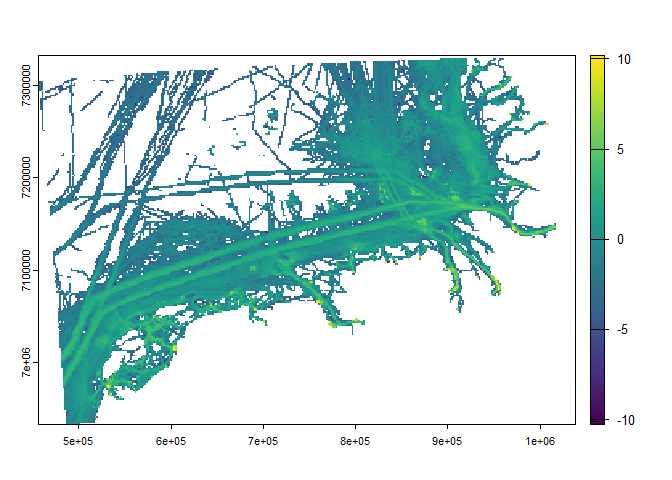
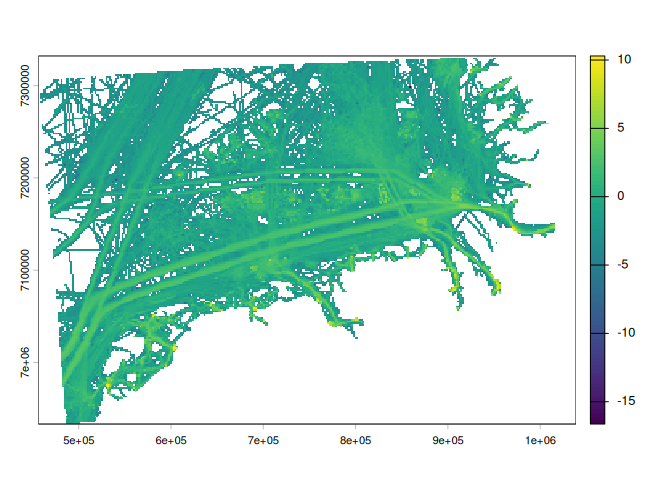
Deploying to gh-pages from @ EMODnet/emodnet.wcs@b8e9842db4f9d2f2b147557146b9913ca2b39ca5 🚀

Changed region(s): [[0.0312, 0.0938, 0.8438, 0.9375], [0.875, 0.0938, 0.9688, 0.9062], [0.0312, 0.7188, 0.0625, 0.7812]]

diff --git a/index.html b/index.html
@@ -102,10 +102,14 @@
 <td align="left"><a href="https://geo.vliz.be/geoserver/Emodnetbio/wcs" class="external-link uri">https://geo.vliz.be/geoserver/Emodnetbio/wcs</a></td>
 </tr>
 <tr class="odd">
+<td align="left">new_biology</td>
+<td align="left"><a href="https://ows.emodnet.eu/geoserver/biology/ows" class="external-link uri">https://ows.emodnet.eu/geoserver/biology/ows</a></td>
+</tr>
+<tr class="even">
 <td align="left">human_activities</td>
 <td align="left"><a href="https://ows.emodnet-humanactivities.eu/wcs" class="external-link uri">https://ows.emodnet-humanactivities.eu/wcs</a></td>
 </tr>
-<tr class="even">
+<tr class="odd">
 <td align="left">seabed_habitats</td>
 <td align="left"><a href="https://ows.emodnet-seabedhabitats.eu/geoserver/emodnet_open_maplibrary/wcs" class="external-link uri">https://ows.emodnet-seabedhabitats.eu/geoserver/emodnet_open_maplibrary/wcs</a></td>
 </tr>
@@ -275,12 +279,12 @@
 <span><span class="co">#&gt; ── Downloading coverage "emodnet__vesseldensity_all" ───────────────────────────</span></span>
 <span><span class="co">#&gt; &lt;GMLEnvelope&gt;</span></span>
 <span><span class="co">#&gt; ....|-- lowerCorner: 484177.9 6957617.3 "2017-01-01T00:00:00"</span></span>
-<span><span class="co">#&gt; ....|-- upperCorner: 1035747 7308616.2 "2023-12-01T00:00:00"</span></span>
+<span><span class="co">#&gt; ....|-- upperCorner: 1035747 7308616.2 "2024-12-01T00:00:00"</span></span>
 <span><span class="co">#&gt; ✔ Coverage "emodnet__vesseldensity_all" downloaded succesfully as a</span></span>
 <span><span class="co">#&gt; terra &lt;SpatRaster&gt; .</span></span></code></pre></div>
 <div class="sourceCode" id="cb10"><pre class="downlit sourceCode r">
 <code class="sourceCode R"><span><span class="fu">terra</span><span class="fu">::</span><span class="fu"><a href="https://rspatial.github.io/terra/reference/plot.html" class="external-link">plot</a></span><span class="op">(</span><span class="fu"><a href="https://rdrr.io/r/base/Log.html" class="external-link">log</a></span><span class="op">(</span><span class="va">cov</span><span class="op">)</span><span class="op">)</span></span></code></pre></div>
-<p><img src="reference/figures/README-unnamed-chunk-3-1.png" width="100%"></p>
+<p><img src="reference/figures/README-unnamed-chunk-3-1.png" alt="" width="100%"></p>
 <p>For more details on downloading coverages, please refer to the <a href="https://emodnet.github.io/emodnet.wcs/articles/coverages.html">Download Coverages</a> article in the <code>emodnet.wcs</code> online documentation.</p>
 </div>
 <div class="section level2">
@@ -291,7 +295,7 @@
 <code class="sourceCode R"><span><span class="fu"><a href="https://rdrr.io/r/utils/citation.html" class="external-link">citation</a></span><span class="op">(</span>package <span class="op">=</span> <span class="st">"emodnet.wcs"</span><span class="op">)</span></span>
 <span><span class="co">#&gt; To cite package 'emodnet.wcs' in publications use:</span></span>
 <span><span class="co">#&gt; </span></span>
-<span><span class="co">#&gt;   Krystalli A (2025). _emodnet.wcs: Access EMODnet Web Coverage Service</span></span>
+<span><span class="co">#&gt;   Krystalli A (2026). _emodnet.wcs: Access EMODnet Web Coverage Service</span></span>
 <span><span class="co">#&gt;   data through R_. R package version 0.0.1.9000. Integrated data</span></span>
 <span><span class="co">#&gt;   products created under the European Marine Observation Data Network</span></span>
 <span><span class="co">#&gt;   (EMODnet) Biology project (EASME/EMFF/2017/1.3.1.2/02/SI2.789013),</span></span>
@@ -305,7 +309,7 @@
 <span><span class="co">#&gt;   @Manual{,</span></span>
 <span><span class="co">#&gt;     title = {{emodnet.wcs}: Access EMODnet Web Coverage Service data through R},</span></span>
 <span><span class="co">#&gt;     author = {Anna Krystalli},</span></span>
-<span><span class="co">#&gt;     year = {2025},</span></span>
+<span><span class="co">#&gt;     year = {2026},</span></span>
 <span><span class="co">#&gt;     note = {R package version 0.0.1.9000. Integrated data products created under the European Marine Observation Data Network (EMODnet) Biology project (EASME/EMFF/2017/1.3.1.2/02/SI2.789013), funded by the European Union under Regulation (EU) No 508/2014 of the European Parliament and of the Council of 15 May 2014 on the European Maritime and Fisheries Fund},</span></span>
 <span><span class="co">#&gt;     url = {https://github.com/EMODnet/emodnet.wcs},</span></span>
 <span><span class="co">#&gt;   }</span></span></code></pre></div>

diff --git a/articles/emodnet.wcs.html b/articles/emodnet.wcs.html
@@ -124,13 +124,14 @@ products.</p>
 <span><span class="co">#&gt; Loading ISO 19139 codelists...</span></span></code></pre></div>
 <div class="sourceCode" id="cb2"><pre class="downlit sourceCode r">
 <code class="sourceCode R"><span><span class="fu"><a href="../reference/emdn_wcs.html">emdn_wcs</a></span><span class="op">(</span><span class="op">)</span></span>
-<span><span class="co">#&gt; <span style="color: #949494;"># A tibble: 4 × 2</span></span></span>
+<span><span class="co">#&gt; <span style="color: #949494;"># A tibble: 5 × 2</span></span></span>
 <span><span class="co">#&gt;   service_name     service_url                                                  </span></span>
 <span><span class="co">#&gt;   <span style="color: #949494; font-style: italic;">&lt;chr&gt;</span>            <span style="color: #949494; font-style: italic;">&lt;chr&gt;</span>                                                        </span></span>
 <span><span class="co">#&gt; <span style="color: #BCBCBC;">1</span> bathymetry       https://ows.emodnet-bathymetry.eu/wcs                        </span></span>
 <span><span class="co">#&gt; <span style="color: #BCBCBC;">2</span> biology          https://geo.vliz.be/geoserver/Emodnetbio/wcs                 </span></span>
-<span><span class="co">#&gt; <span style="color: #BCBCBC;">3</span> human_activities https://ows.emodnet-humanactivities.eu/wcs                   </span></span>
-<span><span class="co">#&gt; <span style="color: #BCBCBC;">4</span> seabed_habitats  https://ows.emodnet-seabedhabitats.eu/geoserver/emodnet_open…</span></span></code></pre></div>
+<span><span class="co">#&gt; <span style="color: #BCBCBC;">3</span> new_biology      https://ows.emodnet.eu/geoserver/biology/ows                 </span></span>
+<span><span class="co">#&gt; <span style="color: #BCBCBC;">4</span> human_activities https://ows.emodnet-humanactivities.eu/wcs                   </span></span>
+<span><span class="co">#&gt; <span style="color: #BCBCBC;">5</span> seabed_habitats  https://ows.emodnet-seabedhabitats.eu/geoserver/emodnet_open…</span></span></code></pre></div>
 <p>The <code>service_name</code> column contains the service names that
 can be used to establish connections and make requests to EMODnet WCS
 services.</p>

diff --git a/reference/emdn_wcs.html b/reference/emdn_wcs.html
@@ -56,13 +56,14 @@
     <div class="section level2">
     <h2 id="ref-examples">Examples<a class="anchor" aria-label="anchor" href="#ref-examples"></a></h2>
     <div class="sourceCode"><pre class="sourceCode r"><code><span class="r-in"><span><span class="fu">emdn_wcs</span><span class="op">(</span><span class="op">)</span></span></span>
-<span class="r-out co"><span class="r-pr">#&gt;</span> <span style="color: #949494;"># A tibble: 4 × 2</span></span>
+<span class="r-out co"><span class="r-pr">#&gt;</span> <span style="color: #949494;"># A tibble: 5 × 2</span></span>
 <span class="r-out co"><span class="r-pr">#&gt;</span>   service_name     service_url                                                  </span>
 <span class="r-out co"><span class="r-pr">#&gt;</span>   <span style="color: #949494; font-style: italic;">&lt;chr&gt;</span>            <span style="color: #949494; font-style: italic;">&lt;chr&gt;</span>                                                        </span>
 <span class="r-out co"><span class="r-pr">#&gt;</span> <span style="color: #BCBCBC;">1</span> bathymetry       https://ows.emodnet-bathymetry.eu/wcs                        </span>
 <span class="r-out co"><span class="r-pr">#&gt;</span> <span style="color: #BCBCBC;">2</span> biology          https://geo.vliz.be/geoserver/Emodnetbio/wcs                 </span>
-<span class="r-out co"><span class="r-pr">#&gt;</span> <span style="color: #BCBCBC;">3</span> human_activities https://ows.emodnet-humanactivities.eu/wcs                   </span>
-<span class="r-out co"><span class="r-pr">#&gt;</span> <span style="color: #BCBCBC;">4</span> seabed_habitats  https://ows.emodnet-seabedhabitats.eu/geoserver/emodnet_open…</span>
+<span class="r-out co"><span class="r-pr">#&gt;</span> <span style="color: #BCBCBC;">3</span> new_biology      https://ows.emodnet.eu/geoserver/biology/ows                 </span>
+<span class="r-out co"><span class="r-pr">#&gt;</span> <span style="color: #BCBCBC;">4</span> human_activities https://ows.emodnet-humanactivities.eu/wcs                   </span>
+<span class="r-out co"><span class="r-pr">#&gt;</span> <span style="color: #BCBCBC;">5</span> seabed_habitats  https://ows.emodnet-seabedhabitats.eu/geoserver/emodnet_open…</span>
 <span class="r-in"><span></span></span>
 </code></pre></div>
     </div>

diff --git a/articles/emodnet.wcs.md b/articles/emodnet.wcs.md
@@ -54,13 +54,14 @@ library(emodnet.wcs)
 
 ``` r
 emdn_wcs()
-#> # A tibble: 4 × 2
+#> # A tibble: 5 × 2
 #>   service_name     service_url                                                  
 #>   <chr>            <chr>                                                        
 #> 1 bathymetry       https://ows.emodnet-bathymetry.eu/wcs                        
 #> 2 biology          https://geo.vliz.be/geoserver/Emodnetbio/wcs                 
-#> 3 human_activities https://ows.emodnet-humanactivities.eu/wcs                   
-#> 4 seabed_habitats  https://ows.emodnet-seabedhabitats.eu/geoserver/emodnet_open…
+#> 3 new_biology      https://ows.emodnet.eu/geoserver/biology/ows                 
+#> 4 human_activities https://ows.emodnet-humanactivities.eu/wcs                   
+#> 5 seabed_habitats  https://ows.emodnet-seabedhabitats.eu/geoserver/emodnet_open…
 ```
 
 The `service_name` column contains the service names that can be used to

diff --git a/index.md b/index.md
@@ -58,6 +58,7 @@ All available services are contained in the tibble returned by
 |:-----------------|:------------------------------------------------------------------------------|
 | bathymetry       | <https://ows.emodnet-bathymetry.eu/wcs>                                       |
 | biology          | <https://geo.vliz.be/geoserver/Emodnetbio/wcs>                                |
+| new_biology      | <https://ows.emodnet.eu/geoserver/biology/ows>                                |
 | human_activities | <https://ows.emodnet-humanactivities.eu/wcs>                                  |
 | seabed_habitats  | <https://ows.emodnet-seabedhabitats.eu/geoserver/emodnet_open_maplibrary/wcs> |
 
@@ -250,7 +251,7 @@ cov <- emdn_get_coverage(
 #> ── Downloading coverage "emodnet__vesseldensity_all" ───────────────────────────
 #> <GMLEnvelope>
 #> ....|-- lowerCorner: 484177.9 6957617.3 "2017-01-01T00:00:00"
-#> ....|-- upperCorner: 1035747 7308616.2 "2023-12-01T00:00:00"
+#> ....|-- upperCorner: 1035747 7308616.2 "2024-12-01T00:00:00"
 #> ✔ Coverage "emodnet__vesseldensity_all" downloaded succesfully as a
 #> terra <SpatRaster> .
 ```
@@ -274,7 +275,7 @@ To cite emodnet.wcs, please use the output from
 citation(package = "emodnet.wcs")
 #> To cite package 'emodnet.wcs' in publications use:
 #> 
-#>   Krystalli A (2025). _emodnet.wcs: Access EMODnet Web Coverage Service
+#>   Krystalli A (2026). _emodnet.wcs: Access EMODnet Web Coverage Service
 #>   data through R_. R package version 0.0.1.9000. Integrated data
 #>   products created under the European Marine Observation Data Network
 #>   (EMODnet) Biology project (EASME/EMFF/2017/1.3.1.2/02/SI2.789013),
@@ -288,7 +289,7 @@ citation(package = "emodnet.wcs")
 #>   @Manual{,
 #>     title = {{emodnet.wcs}: Access EMODnet Web Coverage Service data through R},
 #>     author = {Anna Krystalli},
-#>     year = {2025},
+#>     year = {2026},
 #>     note = {R package version 0.0.1.9000. Integrated data products created under the European Marine Observation Data Network (EMODnet) Biology project (EASME/EMFF/2017/1.3.1.2/02/SI2.789013), funded by the European Union under Regulation (EU) No 508/2014 of the European Parliament and of the Council of 15 May 2014 on the European Maritime and Fisheries Fund},
 #>     url = {https://github.com/EMODnet/emodnet.wcs},
 #>   }

diff --git a/reference/emdn_wcs.md b/reference/emdn_wcs.md
@@ -16,11 +16,12 @@ Tibble of available EMODnet Web Coverage Services
 
 ``` r
 emdn_wcs()
-#> # A tibble: 4 × 2
+#> # A tibble: 5 × 2
 #>   service_name     service_url                                                  
 #>   <chr>            <chr>                                                        
 #> 1 bathymetry       https://ows.emodnet-bathymetry.eu/wcs                        
 #> 2 biology          https://geo.vliz.be/geoserver/Emodnetbio/wcs                 
-#> 3 human_activities https://ows.emodnet-humanactivities.eu/wcs                   
-#> 4 seabed_habitats  https://ows.emodnet-seabedhabitats.eu/geoserver/emodnet_open…
+#> 3 new_biology      https://ows.emodnet.eu/geoserver/biology/ows                 
+#> 4 human_activities https://ows.emodnet-humanactivities.eu/wcs                   
+#> 5 seabed_habitats  https://ows.emodnet-seabedhabitats.eu/geoserver/emodnet_open…
 ```